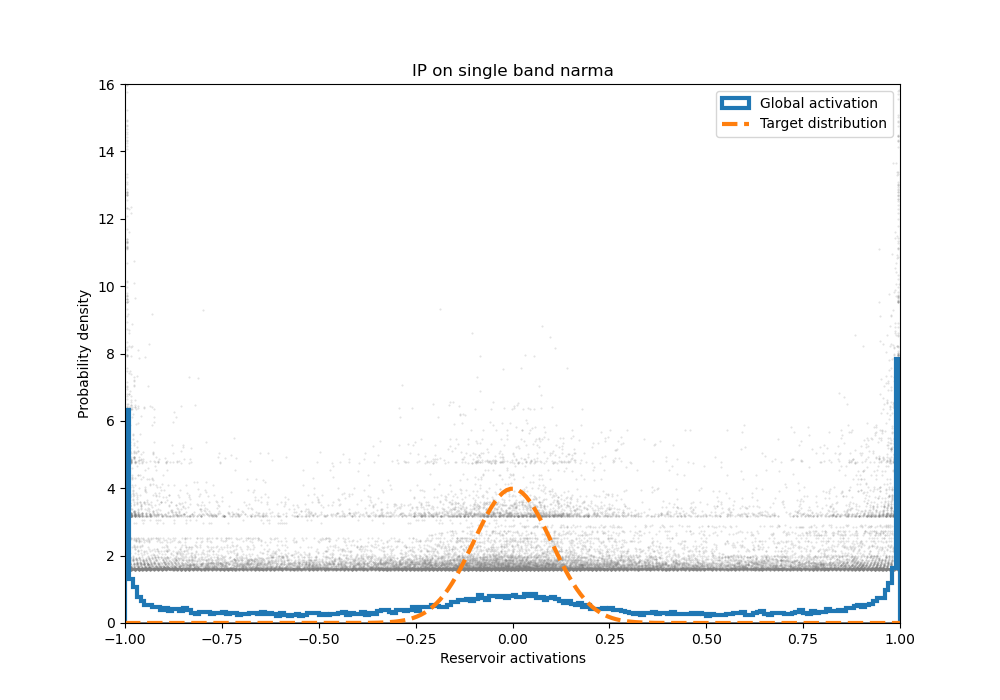
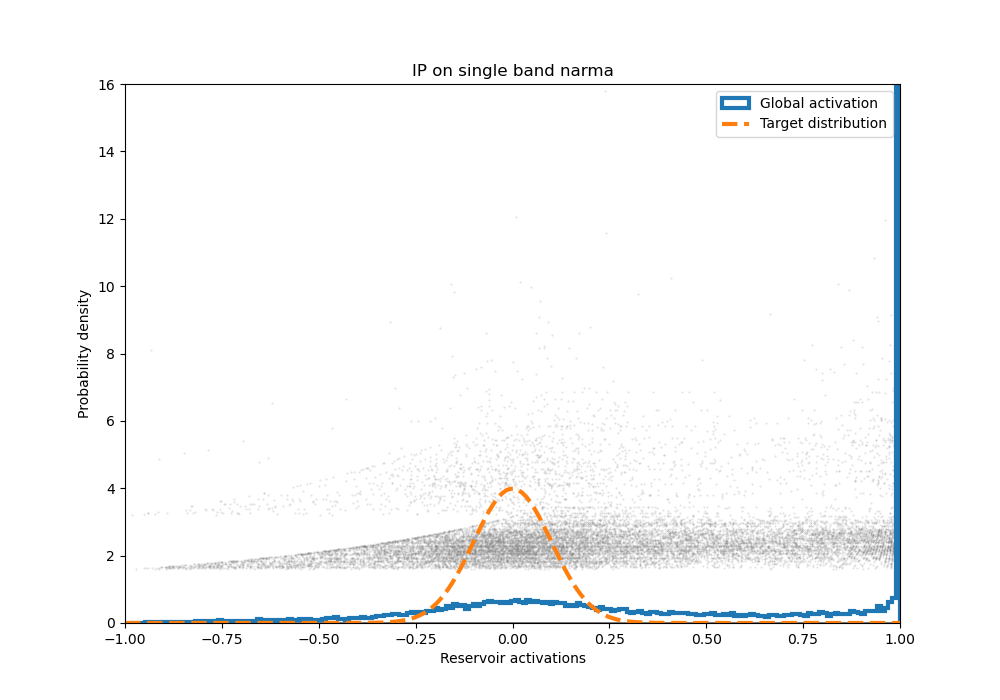
things

diff --git a/shallow_network.py b/shallow_network.py
@@ -14,8 +14,7 @@ import numpy as np
 import librosa
 import os
 
-# folder_path = "C:/Users/rikki/Documents/Uni/Thesis/Dataset/data/01"
-folder_path = "C:/Users/rikki/Uni/data/01"
+folder_path = "data/01"
 
 IP = True
 TONOTOPIC = False
@@ -28,7 +27,7 @@ def load_training_data(folder_path):
     silence_label = np.zeros(11)
     silence_label[10] = 1
 
-    test = True
+    test = False
 
     for filename in os.listdir(folder_path):
         if filename.lower().endswith(".wav"):
@@ -57,6 +56,49 @@ def load_training_data(folder_path):
 
     return samples, targets
 
+def create_mel_spectrogram(audio, orig_sr):
+    # Length to pad/trim to
+    fixed_length = 1
+
+    # Spectrogram parameters
+    sr = 8000
+    win_length = 512
+    n_fft = 512
+    hop_length = 128
+    n_mels = 128
+
+    plot = False
+
+    # Resample audio
+    if orig_sr != sr:
+        audio = librosa.resample(audio, orig_sr=orig_sr, target_sr=sr)
+
+    # Trim/pad to fixed length
+    audio = trim_or_pad(audio, sr, fixed_length)
+
+    # Apply RMS Normalization
+    audio = rms_normalize(audio)
+
+    # Create Spectrogram, convert to db and transpose to match expected input shape (time_steps, features)
+    S = librosa.feature.melspectrogram(
+        y=audio,
+        sr=sr,
+        n_fft=n_fft,
+        hop_length=hop_length,
+        win_length=win_length,
+        n_mels=n_mels
+    )
+    S = librosa.power_to_db(S, ref=np.max)
+    S = S.T
+
+    # print(f"Spectrogram shape: {S.shape}")
+
+    if plot:
+        plot_waveform(audio, sr, title="After RMS")
+        plot_spectrogram(S.T, sr, hop_length)
+
+    return S
+
 def create_spectrogram(audio, orig_sr):
     # Length to pad/trim to
     fixed_length = 1
@@ -79,12 +121,14 @@ def create_spectrogram(audio, orig_sr):
     # Apply RMS Normalization
     audio = rms_normalize(audio)
 
-    # Create Spectrogram, transpose to match expected input shape (time_steps, features)
-    S = np.abs(librosa.stft(y=audio, win_length=win_length, n_fft=n_fft, hop_length=hop_length)).T
+    # Create Spectrogram, conver to db and transpose to match expected input shape (time_steps, features)
+    S = np.abs(librosa.stft(y=audio, win_length=win_length, n_fft=n_fft, hop_length=hop_length))
+    S = librosa.amplitude_to_db(S, ref=np.max) + 80
+    S = S.T
 
     # Normalize Spectrogram
-    S = librosa.util.normalize(S)
-    print(f"Shape: {S.shape}")
+    # S = librosa.util.normalize(S)
+    print(f"Spectrogram shape: {S.shape}")
 
     if plot:
         plot_waveform(audio, sr, title="After RMS")
@@ -109,12 +153,8 @@ def trim_or_pad(audio, sr, fixed_length):
 
 def rms_normalize(audio):
     rms = np.sqrt(np.mean(audio**2))
-    print(f"RMS before: {rms}")
-
     audio = audio / rms
 
-    rms = np.sqrt(np.mean(audio ** 2))
-    print(f"RMS after: {rms}")
     return audio
 
 def create_model(N, sr, lr):
@@ -134,7 +174,7 @@ def train_model(X, Y, reservoir, readout):
     i = 1
 
     for spec, labels in zip(X, Y):
-        print(f"{i} out of {total}")
+        print(f"Training: {i} out of {total}")
 
         states = reservoir.run(spec)
 
@@ -180,7 +220,7 @@ def create_training_data():
 if __name__ == "__main__":
     N = 500
     sr = 0.8
-    lr = 1
+    lr = 0.97
 
     X, Y, X_train, X_test, Y_train, Y_test = create_training_data()
 
@@ -193,12 +233,24 @@ if __name__ == "__main__":
         reservoir.W = W
 
     if IP:
-        apply_ip(reservoir, X)
+        reservoir = apply_ip(reservoir, X)
 
+        # Set input matrix to correct shape for spectrograms
+        p = 0.1 # Probabilty of a connection existing
+        input_d = 129  # Should infer this, 129 for linear spectrogram 128 for mel
+        reservoir.Win = np.random.uniform(0.5, 1, (reservoir.units, input_d))
+
+        # Apply mask for sparsity
+        mask = np.random.rand(reservoir.units, input_d) < p
+        reservoir.Win *= mask
+
+        reservoir.input_dim = input_d
+
+        # Make a plot
         states = reservoir.run(X_test[0])
         states = np.vstack(states)
 
-        plot_pdf(states, 0.1, title="IP on single band narma")
+        plot_pdf(states, 0.1, title="Neuron activations")
 
     readout = train_model(X_train, Y_train, reservoir, readout)
 

diff --git a/IP_test.py b/IP_test.py
@@ -42,9 +42,31 @@ def get_KL_divergence_and_entropy(states, sigma):
     pdf = np.array([bounded(norm, xi, 0.0, sigma, -1.0, 1.0) for xi in bin_centers])
 
     kl = entropy(hist, pdf)
-    ent = entropy(hist)
+    # ent = entropy(hist)
 
-    return kl, ent
+    return kl
+
+def get_KL_divergence_and_entropy_per_neuron(states, sigma):
+    kls = []
+    ents = []
+
+    for state in states:
+        x_min = state.min()
+        x_max = state.max()
+
+        # Estimate PDF with a histogram from all activations
+        hist, edges = np.histogram(state, density=True, bins=200, range=(x_min, x_max))
+
+        # Use bin centers, so estimated PDF and target PDF are aligned
+        bin_centers = 0.5 * (edges[:-1] + edges[1:])
+
+        # Target PDF
+        pdf = np.array([bounded(norm, xi, 0.0, sigma, -1.0, 1.0) for xi in bin_centers])
+
+        kls.append(entropy(hist, pdf))
+        # ents.append(entropy(hist))
+
+    return np.mean(kls)
 
 def plot_pdf(states, sigma):
     fig, (ax1) = plt.subplots(1, 1, figsize=(10, 7))
@@ -80,7 +102,7 @@ def create_model(N, lr, sr, sigma, epochs=4):
 
 if __name__ == "__main__":
     data_len = 1000
-    iterations = 1
+    iterations = 10
 
     results = []
 
@@ -124,29 +146,27 @@ if __name__ == "__main__":
                 print(set)
                 for i in range(iterations):
                     # Create model
-                    reservoir = create_model(600, 1, 0.8, sigma)
+                    reservoir = create_model(N, lr, sr, sigma)
 
-                    states_before = reservoir.run(X[100:])
                     # Apply intrinsic plasticity
                     _ = reservoir.fit(X, warmup=100)
+
                     # Get activations
                     states = reservoir.run(X[100:])
 
-                    plot_pdf(states_before, sigma)
-                    plot_pdf(states, sigma)
-
                     # Get the KL-divergence and entropy for neuron activations
-                    kl, ent = get_KL_divergence_and_entropy(states, sigma)
+                    kl = get_KL_divergence_and_entropy(states, sigma)
+                    avg_kl = get_KL_divergence_and_entropy_per_neuron(states, sigma)
+
+                    print(f"Total KL: {kl}")
+                    print(f"Average KL: {avg_kl}")
 
                     results.append({
-                        "N": N,
-                        "lr": lr,
-                        "sr": sr,
-                        "set_n": set,
                         "KL": kl,
-                        "entropy": ent,
+                        "avg_kl": avg_kl
                     })
                 set += 1
 
     df = pd.DataFrame(results)
-    df.to_csv(f"results_parameters_ip_{iterations}_iter_v2.csv", index=False)
+    # df.to_csv(f"results_parameters_ip_{iterations}_iter_v3.csv", index=False)
+    df.to_csv(f"avg_kl_vs_kl_per_neuron.csv", index=False)

diff --git a/biological_constraints.py b/biological_constraints.py
@@ -3,38 +3,9 @@ from reservoirpy.datasets import narma
 import random
 
 def apply_ip(reservoir, X):
-    ### Using spectrograms ###
-    # stream = []
-    # total = 0
-    #
-    # while total < 1000:
-    #     spec = random.choice(X)
-    #     stream.append(spec)
-    #     total += spec.shape[0]
-    # stream = np.concatenate(stream, axis=0)
-    #
-    # reservoir.fit(stream, warmup=100)
-
-    ### Multi-band narma ###
-    # features = X[0].shape[1]
-    # T = 1000
-    #
-    # multi_d_narma = np.zeros((T, features))
-    #
-    # for i in range(features):
-    #     _, X_narma = narma(T)
-    #     multi_d_narma[:, i] = X_narma.ravel()
-    #
-    # _ = reservoir.fit(multi_d_narma, warmup=100)
-
-    ### Single band narma ###
     T = 1000
     _, X_narma = narma(T)
     _ = reservoir.fit(X_narma, warmup=100)
-
-    # Set input matrix to correct shape for spectrograms
-    reservoir.Win = np.random.uniform(-1, 1, (reservoir.units, 129))
-    reservoir.input_dim = 129
 
     return reservoir
 

diff --git a/utils.py b/utils.py
@@ -54,7 +54,7 @@ def plot_waveform(audio, sr, title="Waveform"):
 def plot_spectrogram(S, sr, hop_length, title="Spectrogram"):
     plt.figure(figsize=(10, 4))
     librosa.display.specshow(
-        S,  # transpose if needed: librosa expects (freq_bins, frames)
+        S,
         sr=sr,
         hop_length=hop_length,
         x_axis='time',
